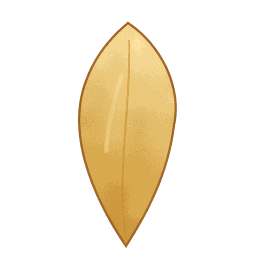
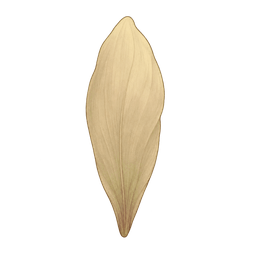
art: batch 5 consistency redo (gold/ivory/rose/sage blooms, warm spray, sage bud, petals)
All seven hero blooms now share the dense lithographic style; rose toned to
dusty rose, sage to grey-green; default themes back on spray-warm.

Changed region(s): [[0.2812, 0.0625, 0.7188, 0.9688]]

diff --git a/public/theme/flower.js b/public/theme/flower.js
@@ -19,15 +19,15 @@
 
   var NS = 'http://www.w3.org/2000/svg';
   var ART = '/theme/art/';
-  var ART_VERSION = '4cba391e';            // written by `npm run art-version`; busts the browser cache when art changes
+  var ART_VERSION = '68f17acd';            // written by `npm run art-version`; busts the browser cache when art changes
   var V = '?v=' + ART_VERSION;
   var COLORWAYS = ['gold', 'rose', 'coral', 'plum', 'sage', 'ivory', 'spring'];
   var THEME_ART = {
-    'default': { hero: 'gold', spray: 'green' },
+    'default': { hero: 'gold', spray: 'warm' },
     'naw-ruz': { hero: 'spring', spray: 'green' },
-    'ridvan': { hero: 'rose', spray: 'green' },
-    'birth-bab': { hero: 'coral', spray: 'green' },
-    'birth-bahaullah': { hero: 'gold', spray: 'green' },
+    'ridvan': { hero: 'rose', spray: 'warm' },
+    'birth-bab': { hero: 'coral', spray: 'warm' },
+    'birth-bahaullah': { hero: 'gold', spray: 'warm' },
     'declaration-bab': { hero: 'plum', spray: 'plum' },
     'covenant': { hero: 'sage', spray: 'green' },
     'martyrdom-bab': { hero: 'ivory', spray: 'plum' },
@@ -76,8 +76,8 @@
   function petalUrls(cw) { return { x1: ART + 'petal-' + cw + '.png' + V, x2: ART + 'petal-' + cw + '@2x.png' + V }; }
   function branchUrls(n) { var u = ART + 'branch-' + n + '.png' + V; return { x1: u, x2: u }; }
   var BUD_FOR = { gold: 'gold', rose: 'rose', coral: 'coral', plum: 'plum', sage: 'sage', ivory: 'gold', spring: 'gold' };
-  // bud-sage.png is optional owner art: until the file is dropped in and listed here, sage falls back to bud-gold.
-  var BUD_AVAILABLE = { gold: 1, rose: 1, coral: 1, plum: 1 };
+  // bud-sage.png now exists (batch 5); a missing colourway would fall back to bud-gold.
+  var BUD_AVAILABLE = { gold: 1, rose: 1, coral: 1, plum: 1, sage: 1 };
   function budUrls(cw) { var c = BUD_FOR[cw] || 'gold'; if (!BUD_AVAILABLE[c]) c = 'gold'; var u = ART + 'bud-' + c + '.png' + V; return { x1: u, x2: u }; }
   function urlsFor(kind, name) {
     return kind === 'hero' ? heroUrls(name) : kind === 'spray' ? sprayUrls(name) : kind === 'branch' ? branchUrls(name) : kind === 'bud' ? budUrls(name) : petalUrls(name);

diff --git a/public/theme/art/README.md b/public/theme/art/README.md
@@ -32,15 +32,16 @@ This is the stable interface between the artwork and the code. **Keep filenames,
 | `wash-default.png`, `wash-naw-ruz.png`, `wash-ridvan.png`, `wash-declaration-bab.png`, `wash-birth-bab.png`, `wash-birth-bahaullah.png`, `wash-covenant.png`, `wash-martyrdom-bab.png`, `wash-ascension-bahaullah.png`, `wash-ascension-abdulbaha.png` | Barely-there soft colour bloom in the corners, stretched to cover the page (alpha at most about 12%; text contrast is verified against it). One per theme id | 480x270 | semi-transparent | theme accent tints (default gold/rose, naw-ruz sage, ridvan rose, births champagne/gold, covenant sage/mauve, solemn greys) | `--wash` in `theme.css` |
 
 ## Status: owner art vs placeholder
-Two styles are now in the folder: **batch 1** (feathery, light: `blossom-gold`, `blossom-ivory`, `blossom-rose`, `spray-warm`) and **batch 2/3** (dense incurved lithographic petals: `blossom-coral`, `blossom-spring`, `blossom-plum`, `spray-green`, `spray-plum`, branches and buds). Re-doing gold, ivory and rose in the dense style would unify the set.
+Two styles are now in the folder: **batch 1** (feathery, light; now fully replaced by batch 5) and **batch 2/3** (dense incurved lithographic petals: `blossom-coral`, `blossom-spring`, `blossom-plum`, `spray-green`, `spray-plum`, branches and buds). Re-doing gold, ivory and rose in the dense style would unify the set.
 | Asset | Status |
 |---|---|
-| `blossom-gold`, `blossom-ivory`, `blossom-rose` (+ `@1x`) | **owner art**, batch 1, feathery style (awaiting dense re-do) |
+| `blossom-gold`, `blossom-ivory` (+ `@1x`) | **owner art**, batch 5 (dense consistency redo); `@1x` files quantised to PNG8 for the size budget |
+| `blossom-rose` (+ `@1x`) | **owner art**, batch 5, tuned toward dusty rose (`-modulate 100,70,98`) |
 | `blossom-coral` (+ `@1x`) | **owner art**, batch 2, dense style |
 | `blossom-spring` (+ `@1x`) | **owner art**, batch 3 (softer sage-green and cream; replaces the batch 2 olive version, backup in `/tmp/art-placeholders-backup/b2/`) |
 | `blossom-plum` (+ `@1x`) | **owner art**, batch 3 (dusty mauve-pink with a deep magenta heart) |
-| `blossom-sage` (+ `@1x`) | **placeholder** (still missing owner art) |
-| `spray-warm` (+ `@1x`) | **owner art**, batch 1 (feathery), trimmed and anchored top-left |
+| `blossom-sage` (+ `@1x`) | **owner art**, batch 5, desaturated and warmed toward grey-green (`-modulate 100,65,90`) |
+| `spray-warm` (+ `@1x`) | **owner art**, batch 5 (dense), trimmed and anchored top-left; used by default, ridvan, birth-bab, birth-bahaullah |
 | `spray-green` (+ `@1x`) | **owner art**, batch 2 |
 | `spray-plum` (+ `@1x`) | **owner art**, batch 3, trimmed to its alpha bbox and anchored top-left (stems bleed off the corner) |
 | `branch-warm` | **owner art**, batch 2 |
@@ -49,8 +50,8 @@ Two styles are now in the folder: **batch 1** (feathery, light: `blossom-gold`, 
 | `bud-gold`, `bud-rose` | **owner art**, batch 2 (`bud-rose` recoloured to dusty rose) |
 | `bud-coral` | **owner art**, batch 3 (orange-gold bud; assigned to coral by colour) |
 | `bud-plum` | **owner art**, batch 3 (gold bud flushed mauve-pink; assigned to plum by colour, could also be rose) |
-| `bud-sage` | in the contract, **not yet supplied**. `flower.js` maps sage-hero themes (e.g. covenant) to it via `BUD_FOR`, falls back to `bud-gold` until it is added to `BUD_AVAILABLE` |
-| `petal-gold`, `petal-ivory`, `petal-rose`, `petal-coral`, `petal-spring` (+ `@2x`) | **owner art**, batches 1 and 2 |
+| `bud-sage` | **owner art**, batch 5, tuned like `blossom-sage`; `BUD_AVAILABLE.sage` is on |
+| `petal-gold`, `petal-ivory` (batch 5 redo), `petal-rose`, `petal-coral`, `petal-spring` (+ `@2x`) | **owner art**, batches 1 and 2 |
 | `petal-plum`, `petal-sage` (+ `@2x`) | **owner art**, batch 3, base at bottom centre, saved as full-alpha PNG32 for clean edges |
 | `leaf-a`, `leaf-b`, `leaf-c` | **owner art**, batch 1; not yet placed on a screen |
 | `paper.png` | **owner art, converted** (batch 2): luminance turned into a walnut alpha overlay (alpha at most about 4%) layered over the eggshell colour; tiles seamlessly |

diff --git a/docs/ART-PROMPTS.md b/docs/ART-PROMPTS.md
@@ -9,18 +9,18 @@ Legend: ✅ owner art, dense style / ⚠ owner art, OLD feathery style, redo 
 | Asset | Status |
 |---|---|
 | `blossom-coral`, `blossom-spring`, `blossom-plum` | ✅ |
-| `blossom-gold`, `blossom-ivory`, `blossom-rose` | ⚠ redo |
-| `blossom-sage` | ❌ |
+| `blossom-gold`, `blossom-ivory`, `blossom-rose` | ✅ |
+| `blossom-sage` | ✅ |
 | `spray-green`, `spray-plum` | ✅ |
-| `spray-warm` | ⚠ redo (optional, lower priority) |
+| `spray-warm` | ✅ |
 | `branch-warm`, `branch-plum`, `branch-green` | ✅ |
 | `bud-gold`, `bud-rose`, `bud-coral`, `bud-plum` | ✅ |
-| `bud-sage` | ❌ new (not yet in the README contract; we will add the file mapping) |
+| `bud-sage` | ✅ |
 | `petal-rose`, `petal-coral`, `petal-spring`, `petal-plum`, `petal-sage` | ✅ |
-| `petal-gold`, `petal-ivory` | ⚠ redo |
+| `petal-gold`, `petal-ivory` | ✅ |
 | `leaf-a`, `leaf-b`, `leaf-c` | ✅ |
 | `paper` | ✅ |
-| `ornament-rule`, `ornament-flourish`, `ornament-corner` | ✅ (in the owner manifest; README still calls them placeholder) |
+| `ornament-rule`, `ornament-flourish`, `ornament-corner` | ✅ |
 | `wash-<theme>` (10) | ➖ generated in code, not needed |
 
 ## Next batch (batch 5): consistency redo
